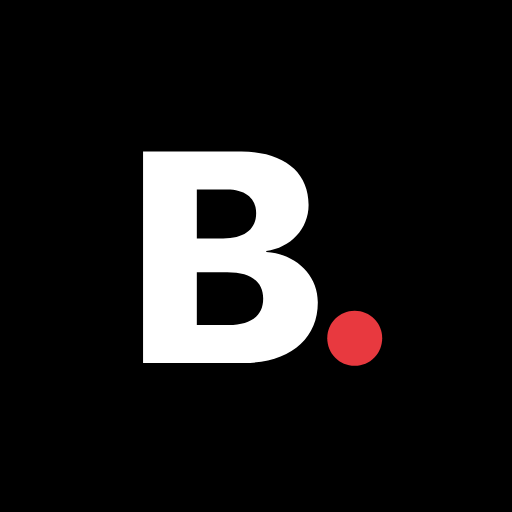
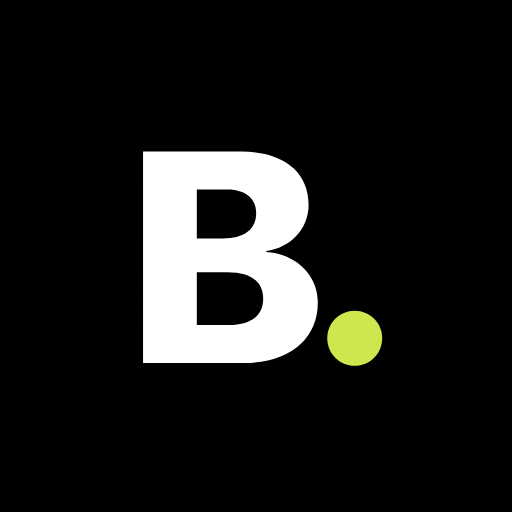
Lime accent instead of red

Changed region(s): [[0.625, 0.5938, 0.75, 0.7188]]

diff --git a/index.html b/index.html
@@ -16,7 +16,7 @@
 :root{
   --bg:#000;--surface:#161618;--surface-2:#252528;--line:#2e2e31;
   --text:#fff;--dim:#8a8a8f;--dim-2:#5e5e63;
-  --accent:#e8393f;--accent-soft:#3a1214;--accent-text:#ff7a7e;--ok:#3ba55c;
+  --accent:#cfe64e;--accent-soft:#2a3011;--accent-text:#dcef6e;--ok:#3ba55c;
   box-sizing:border-box;padding-top:env(safe-area-inset-top,0px);padding-bottom:env(safe-area-inset-bottom,0px);
 }
 *,*::before,*::after{box-sizing:inherit}
@@ -187,7 +187,7 @@ main{padding-bottom:70px}
 .sets{display:flex;flex-wrap:wrap;gap:9px;justify-content:center;margin:18px 20px 4px}
 .dot{width:38px;height:38px;border-radius:12px;background:var(--surface-2);display:grid;place-items:center;font-size:13px;font-weight:600;color:var(--dim-2)}
 .dot.done{background:#fff;color:#000}
-.dot.extra{background:var(--accent);color:#fff}
+.dot.extra{background:var(--accent);color:#000}
 .acts{display:flex;gap:9px;justify-content:center;margin:16px 20px 0}
 .acts .btn-s{flex:1}
 .primary-btn{display:block;width:calc(100% - 40px);margin:16px 20px 0;background:#fff;color:#000;font-size:18px;font-weight:700;padding:18px;border-radius:17px;text-align:center}
@@ -201,7 +201,7 @@ main{padding-bottom:70px}
 .rmbox .row input{flex:1}
 .toggle{display:flex;background:var(--surface-2);border-radius:13px;padding:4px;margin-bottom:12px}
 .toggle button{flex:1;padding:10px;border-radius:10px;font-size:14px;font-weight:600;color:var(--dim);text-align:center}
-.toggle button.on{background:var(--accent);color:#fff}
+.toggle button.on{background:var(--accent);color:#000}
 .calc{color:var(--dim);font-size:13px;margin:4px 0 0}.calc b{color:#fff}
 .dens{margin:16px 20px 0;background:var(--surface);border-radius:16px;padding:17px}
 .dens h4{margin:0 0 4px;font-size:16px;font-weight:700}
